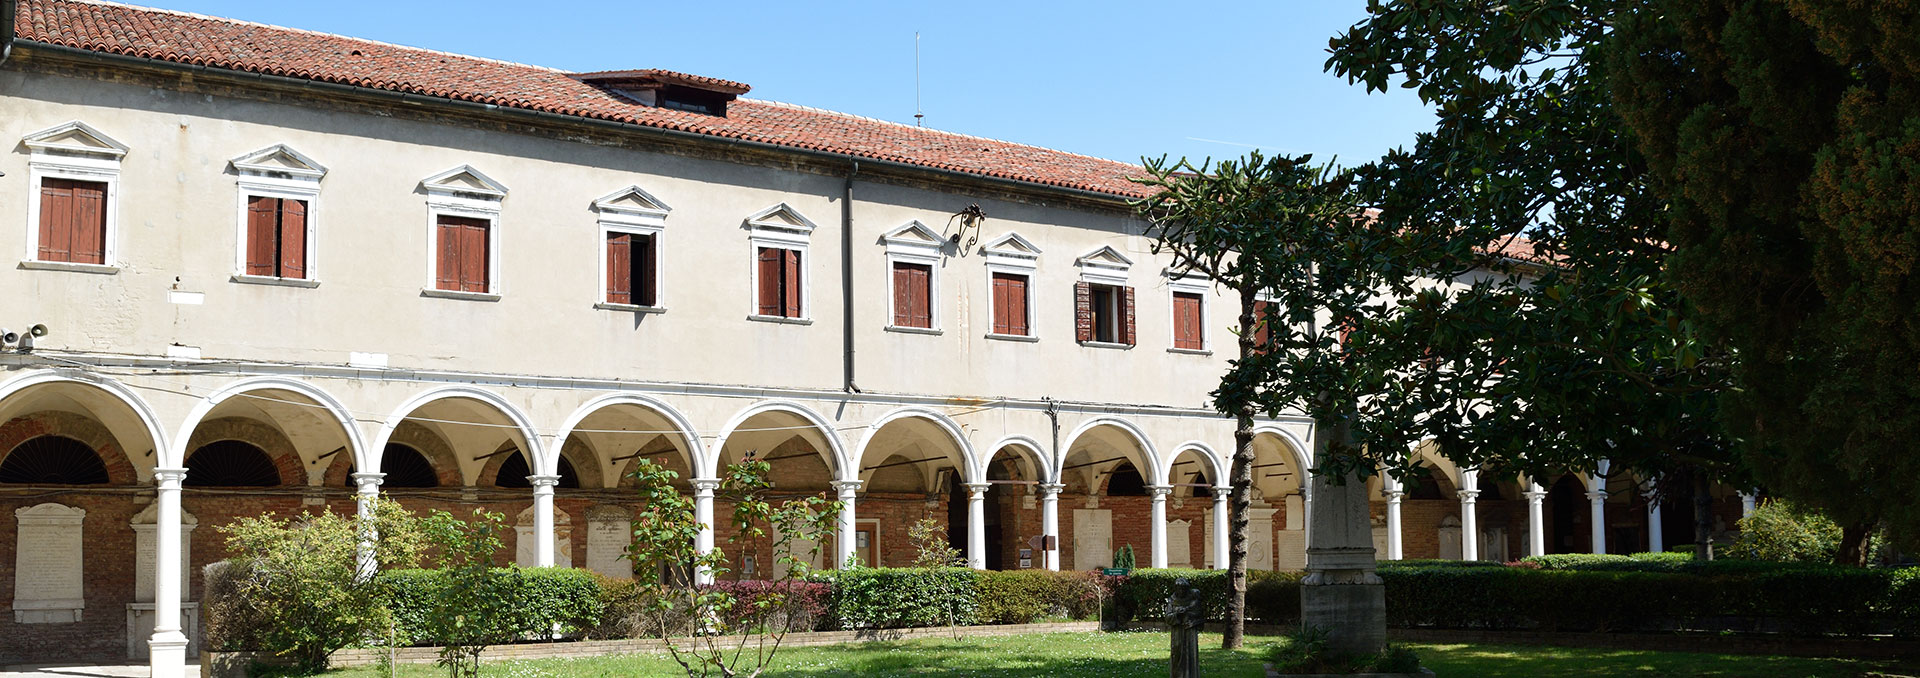
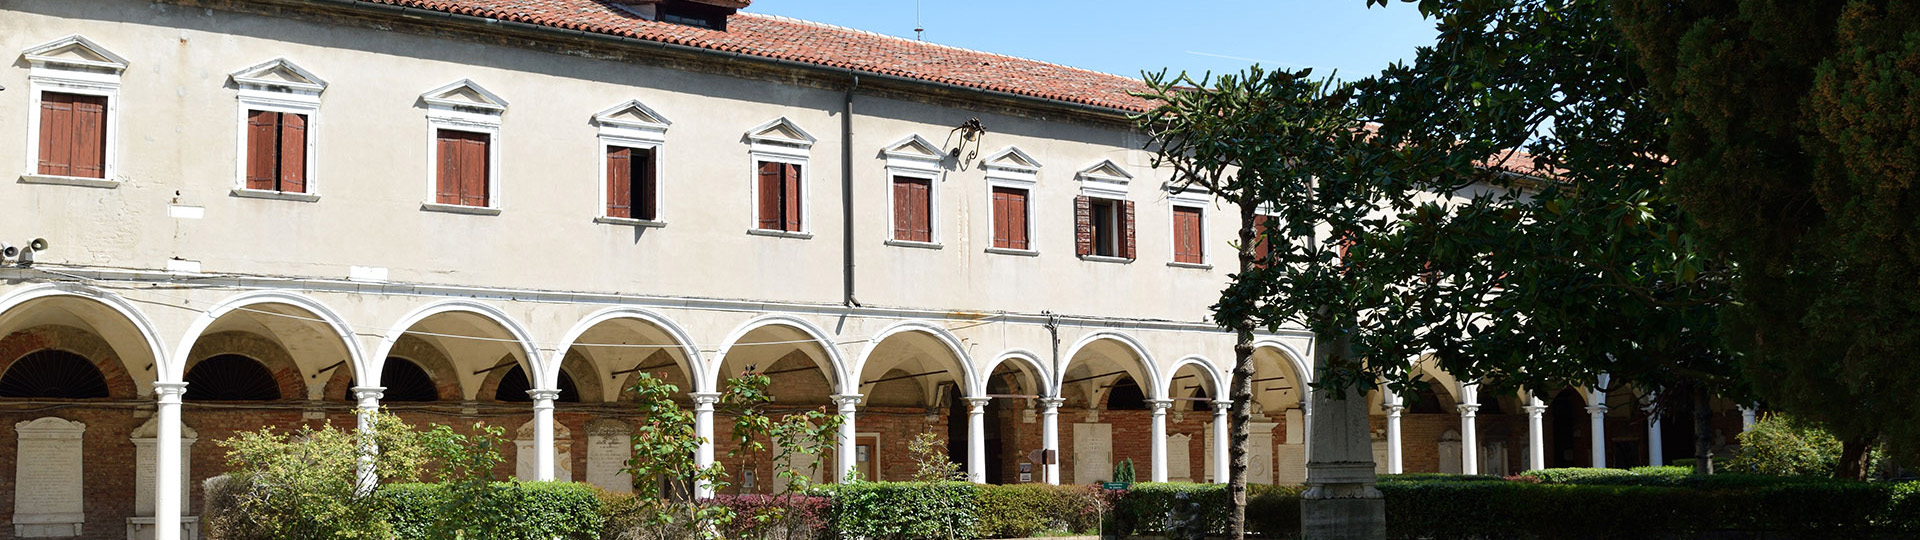
Added image slide show and minor css changes

diff --git a/index.html b/index.html
@@ -22,8 +22,7 @@
 		<span></span>
 	</div>
 	<div id='banner'>
-		<img src="images/cimitero_di_san_michele_full.jpg" />
-		<div id='welcome'>Welcome</div>
+		<img id='banner-image'/>
 	</div>
 	<div id='page'>
 		<div id='main-content'>
@@ -93,7 +92,7 @@
 						<div class='logo'><a href="https://www.reisystems.com/" target="_"><img src="images/rei_logo.png"/></a></div>
 						<div class='description'>
 							<h2><a href="https://www.reisystems.com/" target="_">REI Systems Inc.</a></h2>
-							<p>I started out as a java developer at REI Systems on the NASA eBooks project, which handles grant management systems. Being on a small team led me to learn and take on different skills, leading to me overtime becoming a full stack developer. The company provided the opportunity for me to go above and beyond my assigned responsibilities. I was able to build incredible projects with incredible teams at an incredible company.</p>
+							<p>I started out as a java developer at REI Systems on the NASA eBooks project, which handles grant management systems. Being on a small team led me to learn and take on different skills, leading to me overtime becoming a full stack developer. The company provided the opportunity for me to go above and beyond my assigned responsibilities. I was able to build incredible projects with incredible people at an incredible company.</p>
 						</div>
 					</li>
 				</ul>

diff --git a/js/home.js b/js/home.js
@@ -8,10 +8,28 @@
 			e.preventDefault();
 			var hash=this.hash;
 			$('html, body').animate({
-				scrollTop: $(hash).offset().top
-			},400, function(){
+				scrollTop: $(hash).offset().top,
+				easing:'swing'
+			},300, function(){
 				window.location.hash=hash;
 			});
 		}
 	});
+	var bannerImages=[
+		{'src':'images/cimitero_di_san_michele_full.jpg','alt':'Image of Cimitero Di San Michele'},
+		{'src':'images/burano_venice.jpg','alt':'Image of Burano, Venice'},
+		{'src':'images/cimitero_di_san_michele_2_full.jpg','alt':'Image of Cimitero Di San Michele 2'},
+	]
+	var index=0;
+	$('#banner-image').attr(bannerImages[index]);
+	setInterval(function(){
+    	$('#banner-image').fadeOut(1000,function(){
+	    	if(index===bannerImages.length-1){
+	    		index=0;
+	    	}else{
+	    		index++;
+	    	}
+    		$(this).attr(bannerImages[index])
+    	}).fadeIn(1000);
+	}, 15000);
 })(window, document, $);

diff --git a/css/home.css b/css/home.css
@@ -139,7 +139,8 @@ p {
     top: 17px; }
 
 #banner img {
-  width: 100%; }
+  width: 100%;
+  height: 540px; }
 
 #main-content > div {
   box-shadow: 0px 1px 4px 1px #9e9e9e;

diff --git a/css/home.scss b/css/home.scss
@@ -167,6 +167,7 @@ p{
 #banner{
 	img{
 		width:100%;
+		height:540px;
 	}
 }
 #main-content{
